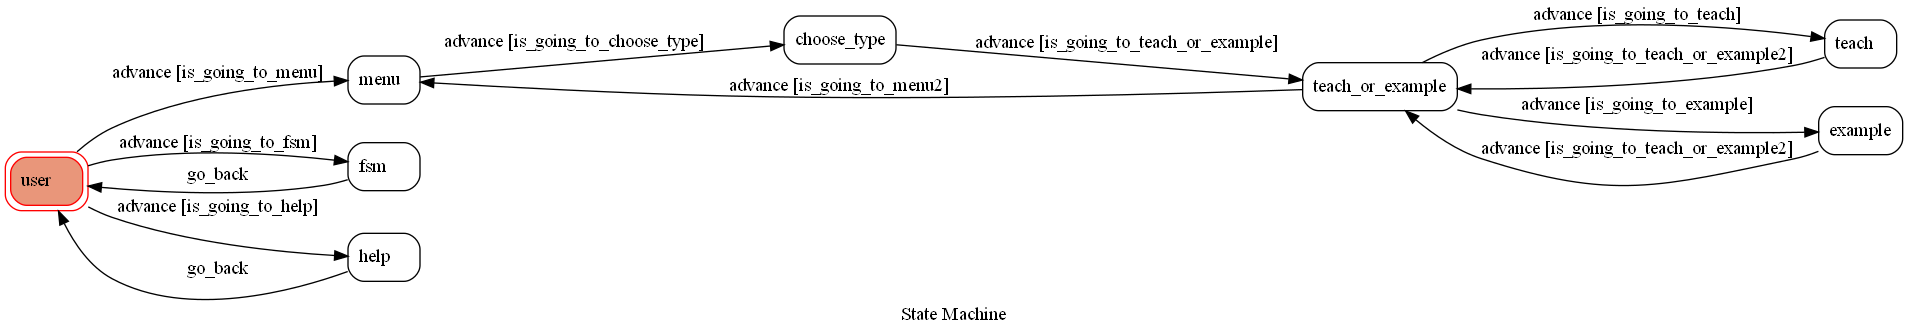
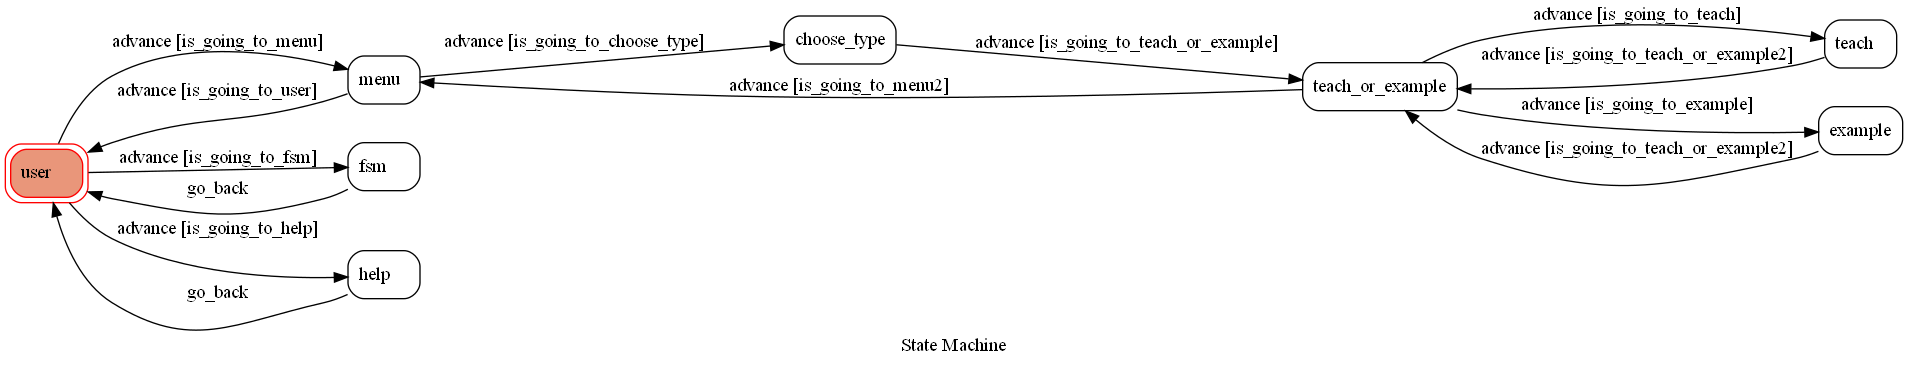
增加menu回初始畫面的transition

diff --git a/fsm.py b/fsm.py
@@ -93,12 +93,17 @@ class TocMachine(GraphMachine):
             return True
         return False
 
+    def is_going_to_user(self, event):
+        text = event.message.text
+        if text == '回初始畫面':    # 在menu中點擊「回初始畫面」button
+            return True
+        return False
     
 
     
     ###############           STATE          ###############
     def on_enter_fsm(self, event):
-        url = 'https://img.onl/J5Ftws'
+        url = 'https://img.onl/VzTSfv'
         send_image_message(event.reply_token, url)
         self.go_back(event)
 
@@ -125,7 +130,8 @@ class TocMachine(GraphMachine):
         option1 = MessageTemplateAction(label = '韓系風', text = '韓系風')
         option2 = MessageTemplateAction(label = '日系風', text = '日系風')
         option3 = MessageTemplateAction(label = '8+9風', text = '8+9風')
-        buttons = [option1, option2, option3]
+        option4 = MessageTemplateAction(label = '回初始畫面', text = '回初始畫面')
+        buttons = [option1, option2, option3, option4]
         send_button_message(event.reply_token, title, text, buttons, url)
 
 

diff --git a/app.py b/app.py
@@ -99,6 +99,13 @@ machine = TocMachine(
             'conditions': 'is_going_to_menu2'
         },
 
+        {
+            'trigger': 'advance', 
+            'source': 'menu',
+            'dest': 'user',
+            'conditions': 'is_going_to_user'
+        },
+
         # go_back
         {
             'trigger': 'go_back',
@@ -158,6 +165,12 @@ def webhook_handler():
         print(f'REQUEST BODY: \n{body}')
         response = machine.advance(event) # 從fsm.py的每個on_enter得來
         
+        if response == True:
+
+            if machine.state == 'user':
+                text = '歡迎來到穿搭怪客的教室!\n\t輸入「fsm」: 查看有限狀態機設計圖\n\t輸入「help」: 教你如何使用穿搭怪客\n\t輸入「start」: 開始教學各類風格的髮型、穿搭，讓你一秒變成穿搭怪客!!!'
+                send_text_message(event.reply_token, text)
+
         if response == False:
             
             #如果輸入非"start"的指令會一直卡在 user state

diff --git a/README.md b/README.md
@@ -20,7 +20,7 @@
 
 ### 輸入「start」，進入主選單
 輸入「start」後，進入正式髮型、穿搭教學。
-![](https://scontent.ftpe7-1.fna.fbcdn.net/v/t1.15752-9/321974801_852477449322151_7694244585537251425_n.jpg?stp=dst-jpg_s403x403&_nc_cat=110&ccb=1-7&_nc_sid=aee45a&_nc_ohc=U8riDSzdDVQAX8vDZLg&_nc_ht=scontent.ftpe7-1.fna&oh=03_AdTBLRJcOKQcUCCxqOR8OsGdLhr3ZqH-u-LcLYKER4yIeg&oe=63CFDB8E)
+![](https://scontent.ftpe7-3.fna.fbcdn.net/v/t1.15752-9/321240768_512731237327510_8412541516852500997_n.jpg?stp=dst-jpg_s403x403&_nc_cat=108&ccb=1-7&_nc_sid=aee45a&_nc_ohc=5vSt0hPPD_gAX8uu6Oh&_nc_ht=scontent.ftpe7-3.fna&oh=03_AdSRZI7meXPimbH78jadSb139pCAHZO5H_dYE8xpJl0JHg&oe=63CFED91)
 
 
 ### 共三個風格，以韓系風做舉例說明
@@ -52,7 +52,7 @@
 
 
 #### 點選「回主選單」，將會跳到"選擇風格的主選單"
-![](https://scontent.xx.fbcdn.net/v/t1.15752-9/321370286_836285060980372_1054427346176690875_n.jpg?stp=dst-jpg_s403x403&_nc_cat=108&ccb=1-7&_nc_sid=aee45a&_nc_ohc=0he8qJokUP4AX9hq9dB&_nc_ad=z-m&_nc_cid=0&_nc_ht=scontent.xx&oh=03_AdQ3-VW1fEDi6UpKbVnWSDSz4h_qR4bqqTLmJXDtcDMSPA&oe=63CFD99E)
+![](https://scontent.xx.fbcdn.net/v/t1.15752-9/320590943_487119076898480_7316519423663670528_n.jpg?stp=dst-jpg_s403x403&_nc_cat=110&ccb=1-7&_nc_sid=aee45a&_nc_ohc=_RF6QHRZBbsAX_v0P8A&_nc_ad=z-m&_nc_cid=0&_nc_ht=scontent.xx&oh=03_AdQHXvWbxoVo90VBvQDd1k184i9oK1gC7S0nodgAL5RGvA&oe=63D00229)
 
 
 
@@ -62,7 +62,7 @@
 
 
 ## FSM圖
-![fsm](https://img.onl/J5Ftws)
+![fsm](https://img.onl/VzTSfv)
 
 
 ### 設計想法
@@ -89,6 +89,8 @@
         * Reply: "產生日系風的選單"
     * Input: "按選單中的按鈕「8+9風」"
         * Reply: "產生8+9風的選單"
+    * Input: "按選單中的按鈕「回初始畫面」"
+        * Reply: "產生初始畫面的訊息"
         
 * choose_type
     * Input: "按選單中的按鈕「髮型」"
@@ -96,7 +98,7 @@
     * Input: "按選單中的按鈕「穿搭」"
         * Reply: "產生「穿搭風格指南」選單"
         
-* teach_and_example
+* teach_or_example
     * Input: "按選單中的按鈕「風格指南」"
         * Reply: "產生該風格的教學指南"  e.g.韓系髮型教學指南
     * Input: "按選單中的按鈕「圖片範本」"
